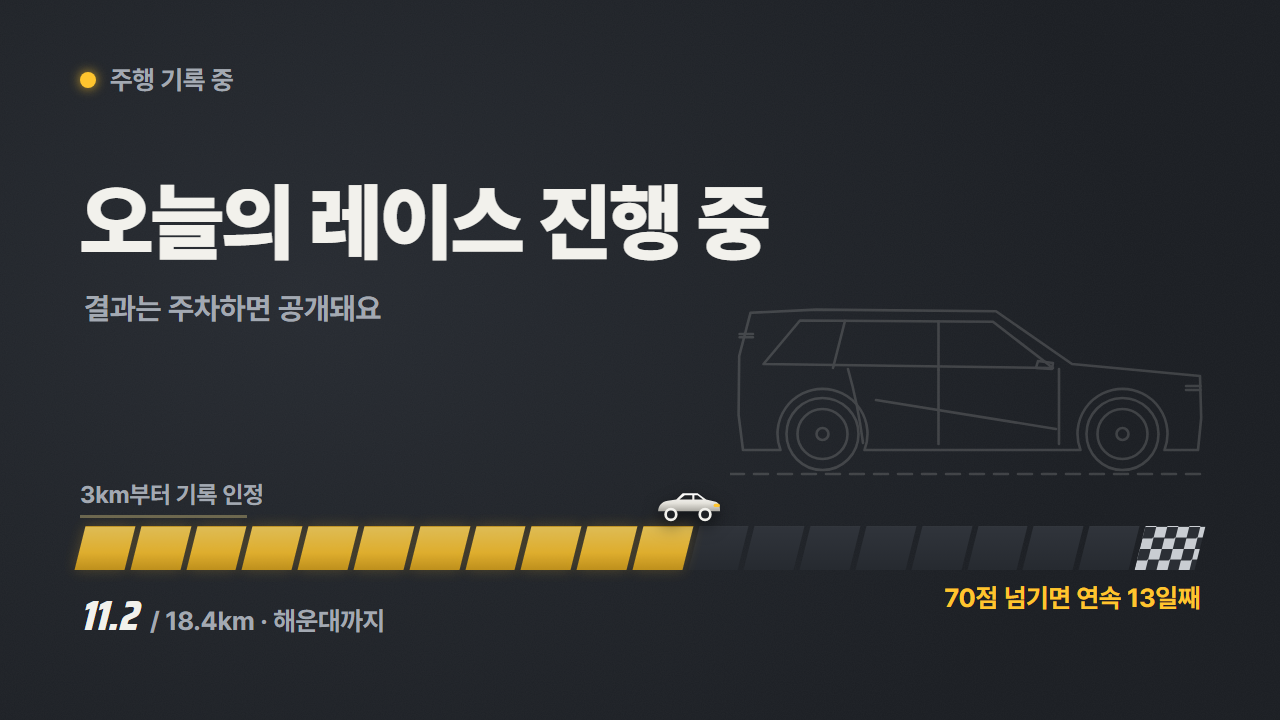
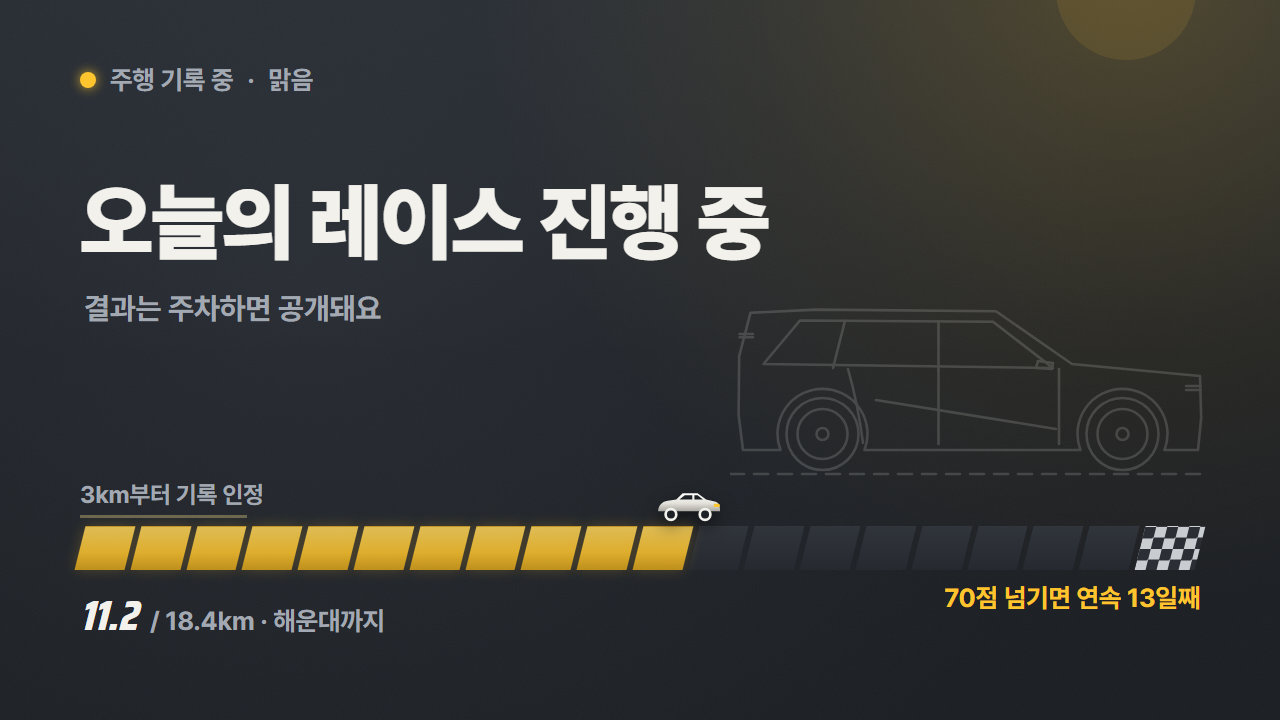
Driving screen: static weather backgrounds (sun/rain/snow/night) from vehicle signals
Still image only, no motion; weather name next to the recording dot.
Adds task 10 to the design-v2 brief.

Changed region(s): [[0.625, 0.0, 1.0, 0.3361], [0.1875, 0.0917, 0.25, 0.1222]]

diff --git a/mockups/driving.html b/mockups/driving.html
@@ -21,10 +21,23 @@
   .meta { position: absolute; left: 80px; right: 80px; bottom: 72px; display: flex; justify-content: space-between; font-size: 26px; color: var(--grey); }
   .meta b { font-size: 42px; color: var(--white); margin-right: 8px; }
   .meta .streak { color: var(--yellow); }
+  /* 날씨 배경: 차량 신호(와이퍼·외기온도·전조등)로 정한 정지 그림. 움직임 없음, 날씨가 바뀔 때만 교체 */
+  .wx { position: absolute; inset: 0; }
+  .wx svg { position: absolute; inset: 0; width: 100%; height: 100%; }
+  .wx.sun { background: radial-gradient(circle at 88% -6%, rgba(255, 197, 46, .20), rgba(255, 197, 46, .06) 28%, transparent 48%),
+    linear-gradient(180deg, rgba(150, 175, 205, .07), transparent 50%); }
+  .wx.rain { background: linear-gradient(180deg, rgba(95, 125, 165, .20), transparent 62%),
+    linear-gradient(0deg, rgba(150, 185, 230, .07), transparent 22%); }
+  .wx.snow { background: linear-gradient(180deg, rgba(190, 210, 235, .14), transparent 60%); }
+  .wx.night { background: radial-gradient(circle at 86% 14%, rgba(200, 210, 235, .10), transparent 30%),
+    linear-gradient(180deg, rgba(10, 14, 30, .55), transparent 70%); }
+  .rec .wxname { color: var(--grey); }
+  .rec .wxname::before { content: '·'; margin-right: 14px; }
 </style>
 </head>
 <body>
 <div class="bg" aria-hidden="true" style="opacity:.5"></div>
+<div class="wx" id="wx" aria-hidden="true"></div>
 <svg class="sil" viewBox="0 0 4800 1760" fill="none" stroke="#F2F1EC" stroke-width="2.6" stroke-linejoin="round" stroke-linecap="round" aria-hidden="true">
 <path vector-effect="non-scaling-stroke" d="M130 1500 L505 1500 A450 450 0 1 1 1345 1500 L3505 1500 A450 450 0 1 1 4345 1500 L4680 1500 L4712 1180 L4700 760 L3420 640 L2660 112 L860 96 L205 128 L92 560 L86 1150 Z"/>
 <path vector-effect="non-scaling-stroke" d="M3230 680 L2630 218 L700 205 L335 640 Z"/>
@@ -37,7 +50,7 @@
 <circle vector-effect="non-scaling-stroke" cx="3925" cy="1340" r="360"/><circle vector-effect="non-scaling-stroke" cx="3925" cy="1340" r="250"/><circle vector-effect="non-scaling-stroke" cx="3925" cy="1340" r="60"/>
 <path vector-effect="non-scaling-stroke" d="M0 1740 H4800" stroke-dasharray="14 10"/>
 </svg>
-<div class="rec"><i></i>주행 기록 중</div>
+<div class="rec"><i></i>주행 기록 중<span class="wxname" id="wxname"></span></div>
 <h1>오늘의 레이스 진행 중</h1>
 <div class="sub">결과는 주차하면 공개돼요</div>
 <div class="wrap">
@@ -74,6 +87,34 @@
 
   const vals = { done: DONE, dest: DEST + 'km · 해운대까지', goal: '70점 넘기면 연속 ' + (DEMO.streakAt('2026-11-06') + 1) + '일째' };
   for (const el of document.querySelectorAll('[data-bind]')) el.textContent = vals[el.dataset.bind];
+
+  // 날씨: ?w=sun|rain|snow|night. 앱에서는 와이퍼 작동=비, 외기 0℃ 이하+와이퍼=눈, 전조등·해진 뒤=밤, 그 밖=맑음.
+  // 빗줄기·눈송이는 고정 시드로 한 번만 그린다(움직이지 않음). 글자가 있는 왼쪽 위·트랙 줄은 비워 둔다.
+  const W = { sun: '맑음', rain: '비', snow: '눈', night: '밤' };
+  const w = W[new URLSearchParams(location.search).get('w')] ? new URLSearchParams(location.search).get('w') : 'sun';
+  const wx = document.getElementById('wx');
+  wx.className = 'wx ' + w;
+  document.getElementById('wxname').textContent = W[w];
+  let seed = 7; const rnd = () => (seed = (seed * 16807) % 2147483647) / 2147483647;
+  const clear = (x, y) => (x < 820 && y > 150 && y < 340) || (y > 480 && y < 640);
+  let g = '';
+  if (w === 'rain') for (let i = 0; i < 140; i++) {
+    const x = rnd() * 1300, y = rnd() * 700, l = 18 + rnd() * 26;
+    if (!clear(x, y)) g += `<line x1="${x}" y1="${y}" x2="${x - l * .27}" y2="${y + l}" stroke="#C8D6EA" stroke-opacity="${.12 + rnd() * .14}" stroke-width="2" stroke-linecap="round"/>`;
+  }
+  if (w === 'snow') for (let i = 0; i < 110; i++) {
+    const x = rnd() * 1280, y = rnd() * 720, r = 1.5 + rnd() * 3.5;
+    if (!clear(x, y)) g += `<circle cx="${x}" cy="${y}" r="${r}" fill="#F2F1EC" fill-opacity="${.18 + rnd() * .3}"/>`;
+  }
+  if (w === 'night') {
+    for (let i = 0; i < 40; i++) {
+      const x = 600 + rnd() * 680, y = rnd() * 260;
+      if (!clear(x, y)) g += `<circle cx="${x}" cy="${y}" r="${.8 + rnd() * 1.4}" fill="#F2F1EC" fill-opacity="${.2 + rnd() * .4}"/>`;
+    }
+    g += '<mask id="m"><circle cx="1100" cy="100" r="34" fill="#fff"/><circle cx="1116" cy="88" r="30" fill="#000"/></mask><circle cx="1100" cy="100" r="34" fill="#E8E6DF" fill-opacity=".55" mask="url(#m)"/>';
+  }
+  if (w === 'sun') g = '<circle cx="1126" cy="-10" r="70" fill="#FFC52E" fill-opacity=".10"/>';
+  wx.innerHTML = `<svg viewBox="0 0 1280 720">${g}</svg>`;
   finishPage();
 </script>
 </body>

diff --git a/mockups/test/chrome.js b/mockups/test/chrome.js
@@ -5,7 +5,8 @@ const { pathToFileURL } = require('node:url');
 const CHROME = process.env.CHROME || 'C:/Program Files/Google/Chrome/Application/chrome.exe';
 const MOCKUPS = path.join(__dirname, '..');
 
-const pageUrl = (file) => pathToFileURL(path.join(MOCKUPS, file)).href;
+// 'driving.html?w=rain'처럼 쿼리가 붙어도 된다
+const pageUrl = (file) => { const [f, q] = file.split('?'); return pathToFileURL(path.join(MOCKUPS, f)).href + (q ? '?' + q : ''); };
 
 // 페이지를 헤드리스로 열어 스크립트 실행 후의 DOM을 문자열로 돌려준다.
 function dumpDom(file) {

diff --git a/mockups/export.js b/mockups/export.js
@@ -11,6 +11,9 @@ const PAGES = [
   ['replay.html', '3-replay.png'],
   ['league.html', '4-league.png'],
   ['driving.html', '5-driving.png'],
+  ['driving.html?w=rain', '5b-driving-rain.png'],
+  ['driving.html?w=snow', '5c-driving-snow.png'],
+  ['driving.html?w=night', '5d-driving-night.png'],
   ['report.html', '6-report.png'],
 ];
 

diff --git a/docs/tasks/2026-11-04-design-v2.md b/docs/tasks/2026-11-04-design-v2.md
@@ -26,6 +26,11 @@
 3. 이긴 날 결과 카드 (`mockups/result-win.html`) — 캐릭터 포함.
 4. 아쉬운 날 결과 카드 (`result-low.html`) — 빨강 금지, 피트보드 캐릭터.
 5. 리그 (`league.html`), 6. 리플레이 (`replay.html`), 7. 주간 리포트 (`report.html`), 8. 주행 중 (`driving.html`, 캐릭터·애니메이션 없음).
+10. **주행 중 날씨 배경** (사용자 요청 2026-11-04, 데이터 = 차량 신호로 결정) — 시안 `driving.html?w=sun|rain|snow|night`, PNG `mockups/png/5-driving.png`(맑음)·`5b-driving-rain.png`·`5c-driving-snow.png`·`5d-driving-night.png`.
+   - 판정은 `core/`가 아닌 별도 순수 함수 + 단위 테스트: 와이퍼 작동 → 비, 외기온도 0℃ 이하 + 와이퍼 → 눈, 전조등 켜짐 또는 해 진 뒤 → 밤, 그 밖 → 맑음. 신호는 Pleos Vehicle State(라이트·공조 등)나 CarPropertyManager(`WINDSHIELD_WIPERS_STATE`, `ENV_OUTSIDE_TEMPERATURE`, `HEADLIGHTS_STATE`)에서 지원 여부를 확인(`checkXxxCapabilities`)하고 쓸 수 있는 것만 씀. 에뮬레이터에서 안 되는 신호는 시연 모드 값으로 대체하고 로그에 기록.
+   - **정지 그림만**: 빗줄기·눈송이·별은 고정 시드로 한 번 그린 비트맵/Drawable. 애니메이션·입자 움직임·버튼 금지(예전 WeatherAmbientView는 이 이유로 삭제됨). 날씨가 바뀔 때만 교체, 1분에 한 번 이하.
+   - 글자·트랙 영역(시안 `clear()` 범위)은 비움. "주행 기록 중 · 비"처럼 날씨 이름 한 단어만 표시.
+   - 기획서와 맞추기 위해 사용한 신호 이름을 `docs/app-dev-log.md`에 적어 둘 것(Claude가 기획서 반영).
 9. (여유 있으면) 캐릭터 등장 연출: 결과 카드가 뜰 때 캐릭터가 아래에서 살짝 올라오는 1회 ObjectAnimator(300ms 이내, P단에서만, onPause 정지). 반복 애니메이션 금지.
 
 ## 지킬 것
